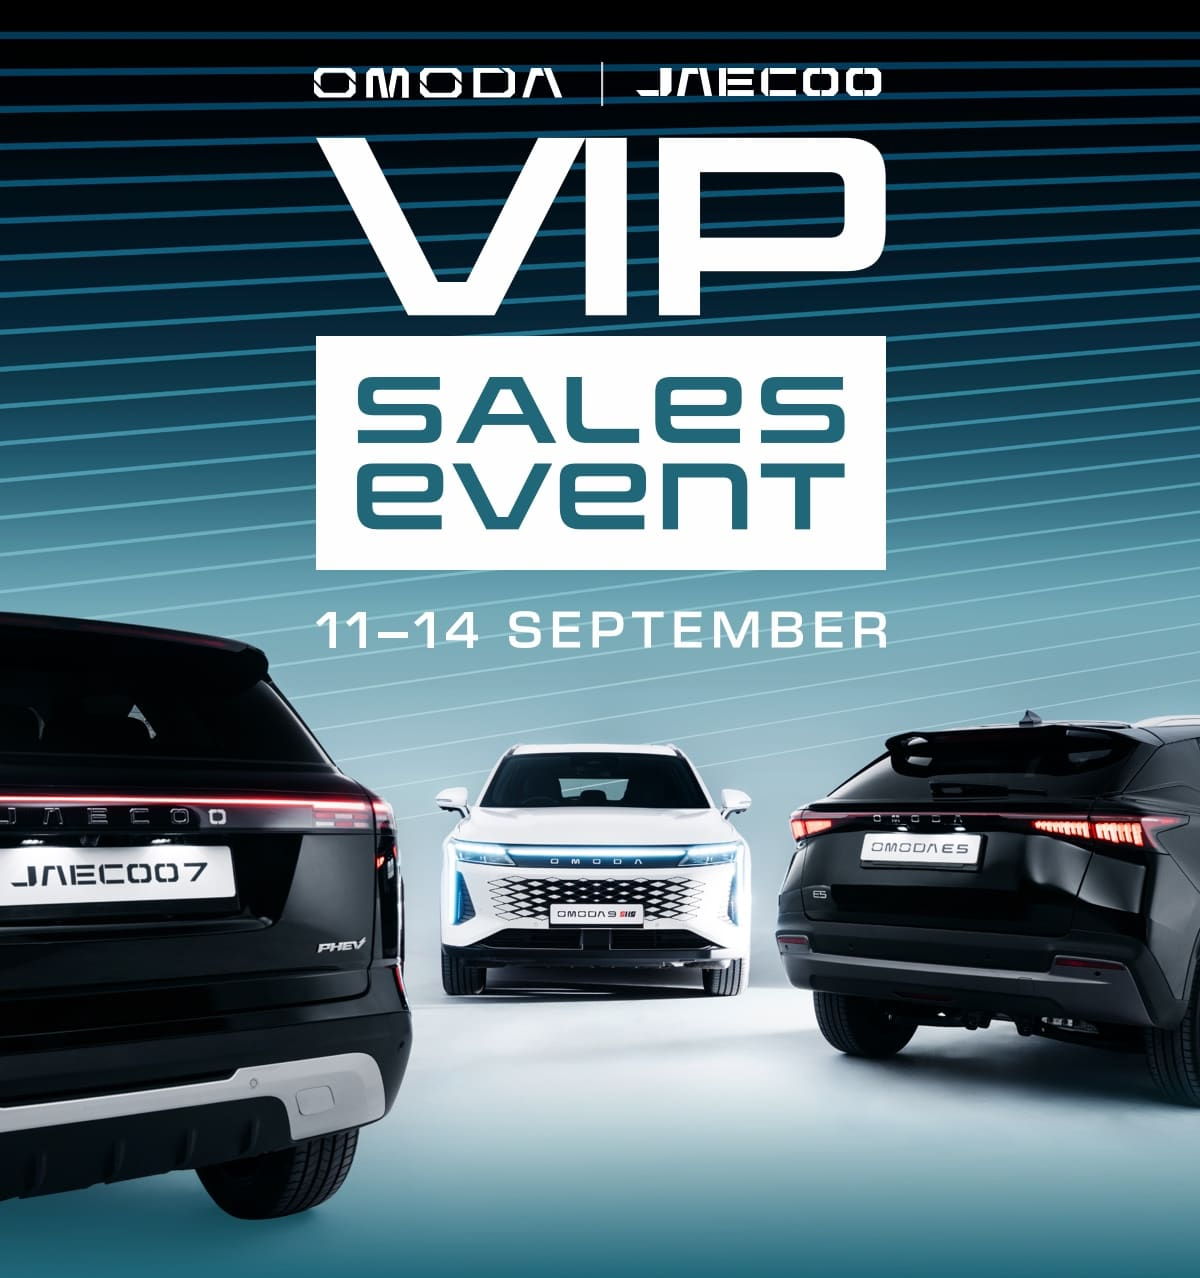
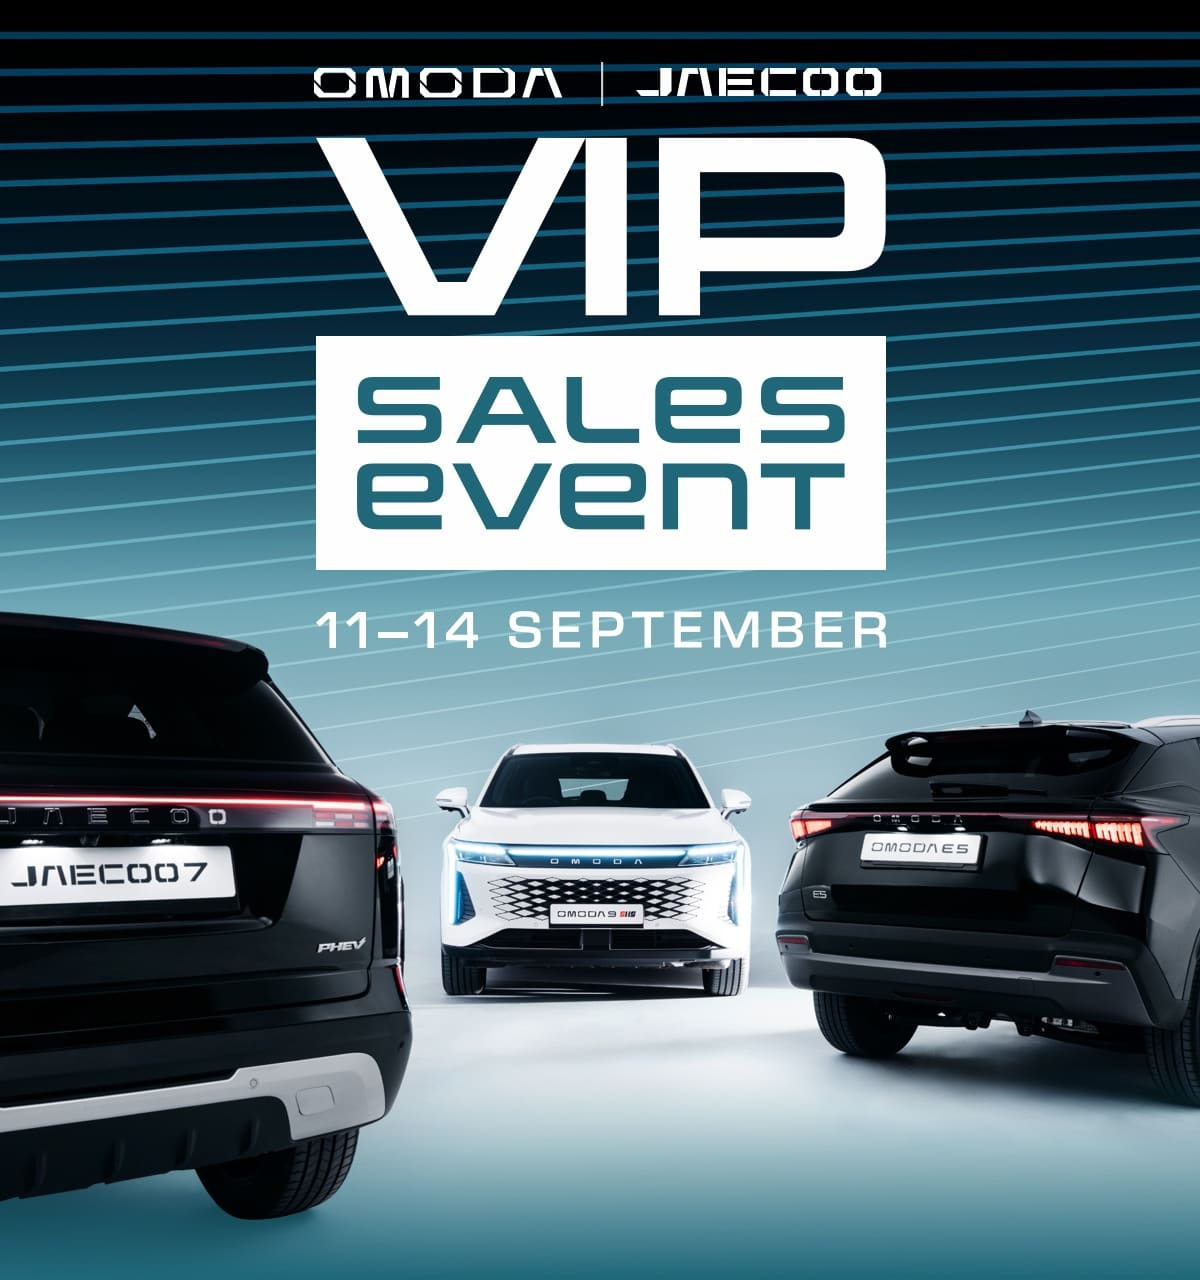
update

diff --git a/complete/omoda/Sales Event Email 3/index.html b/complete/omoda/Sales Event Email 3/index.html
@@ -465,9 +465,9 @@
                   <tbody>
                     <tr>
                       <td>
-                        <img class="resp hom" align="center" src="https://mcusercontent.com/74b24442c8d7d0b842e25d035/images/57556930-86c8-2802-090e-4e22d3fd5ae0.jpg" alt="" width="600" height="570" border="0" style="display: block; width: 100%; max-width: 100%;height: auto">
+                        <img class="resp hom" align="center" src="https://mcusercontent.com/74b24442c8d7d0b842e25d035/images/a8beb602-9c2c-654b-d3b3-4778110f6773.jpg" alt="" width="600" height="640" border="0" style="display: block; width: 100%; max-width: 100%;height: auto">
                         <!--[if !mso]><!-->
-                        <img class="resp som" align="center" src="https://mcusercontent.com/74b24442c8d7d0b842e25d035/images/57556930-86c8-2802-090e-4e22d3fd5ae0.jpg" alt="" width="600" border="0" style="display: none; width: 100%; max-width: 100%;height: auto">
+                        <img class="resp som" align="center" src="https://mcusercontent.com/74b24442c8d7d0b842e25d035/images/a8beb602-9c2c-654b-d3b3-4778110f6773.jpg" alt="" width="600" border="0" style="display: none; width: 100%; max-width: 100%;height: auto">
                         <!--<![endif]-->
                       </td>
                     </tr>

diff --git a/complete/omoda/Sales Event Email 1/index.html b/complete/omoda/Sales Event Email 1/index.html
@@ -465,7 +465,7 @@
                   <tbody>
                     <tr>
                       <td>
-                        <img class="resp hom" align="center" src="https://mcusercontent.com/74b24442c8d7d0b842e25d035/images/b68bd85d-3b3f-c93b-050e-581e9d636484.jpg" alt="" width="600" height="570" border="0" style="display: block; width: 100%; max-width: 100%;height: auto">
+                        <img class="resp hom" align="center" src="https://mcusercontent.com/74b24442c8d7d0b842e25d035/images/b68bd85d-3b3f-c93b-050e-581e9d636484.jpg" alt="" width="600" height="600" border="0" style="display: block; width: 100%; max-width: 100%;height: auto">
                         <!--[if !mso]><!-->
                         <img class="resp som" align="center" src="https://mcusercontent.com/74b24442c8d7d0b842e25d035/images/b68bd85d-3b3f-c93b-050e-581e9d636484.jpg" alt="" width="600" border="0" style="display: none; width: 100%; max-width: 100%;height: auto">
                         <!--<![endif]-->

diff --git a/complete/omoda/Sales Event Email 2/index.html b/complete/omoda/Sales Event Email 2/index.html
@@ -465,7 +465,7 @@
                   <tbody>
                     <tr>
                       <td>
-                        <img class="resp hom" align="center" src="https://mcusercontent.com/74b24442c8d7d0b842e25d035/images/89e057fc-d690-16b1-f012-2d6f97f7a272.jpg" alt="" width="600" height="570" border="0" style="display: block; width: 100%; max-width: 100%;height: auto">
+                        <img class="resp hom" align="center" src="https://mcusercontent.com/74b24442c8d7d0b842e25d035/images/89e057fc-d690-16b1-f012-2d6f97f7a272.jpg" alt="" width="600" height="620" border="0" style="display: block; width: 100%; max-width: 100%;height: auto">
                         <!--[if !mso]><!-->
                         <img class="resp som" align="center" src="https://mcusercontent.com/74b24442c8d7d0b842e25d035/images/89e057fc-d690-16b1-f012-2d6f97f7a272.jpg" alt="" width="600" border="0" style="display: none; width: 100%; max-width: 100%;height: auto">
                         <!--<![endif]-->
